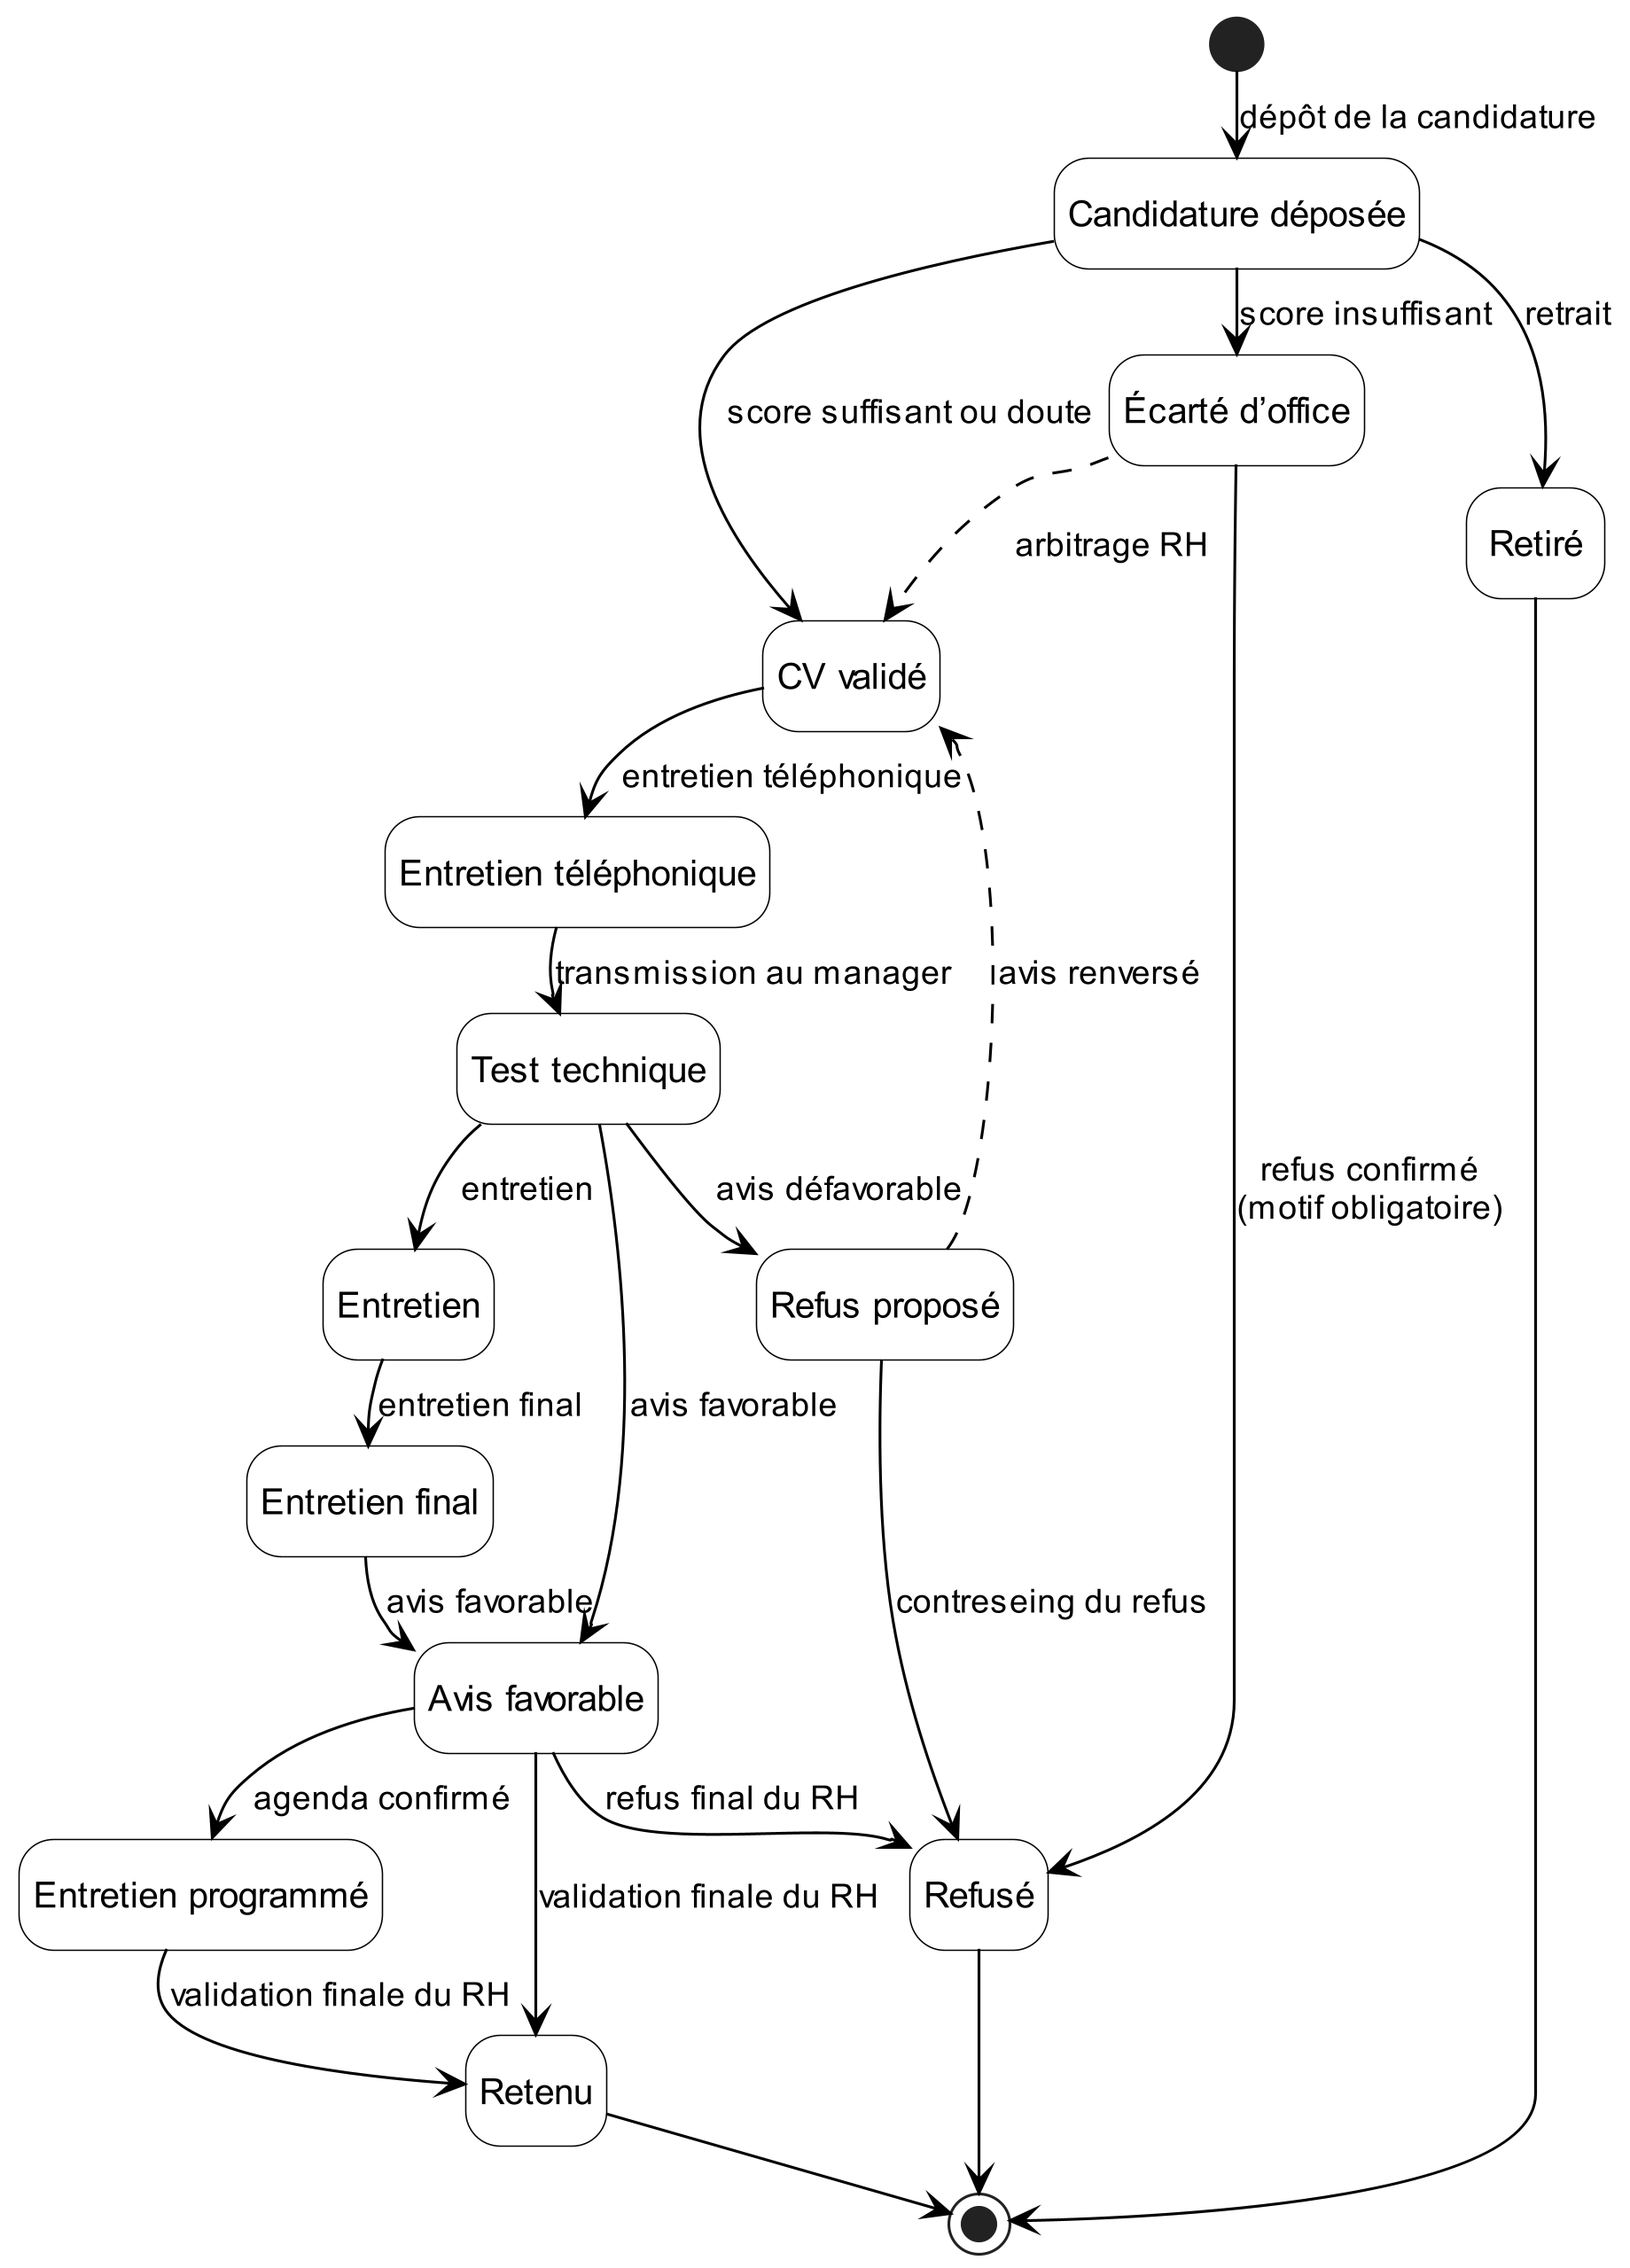
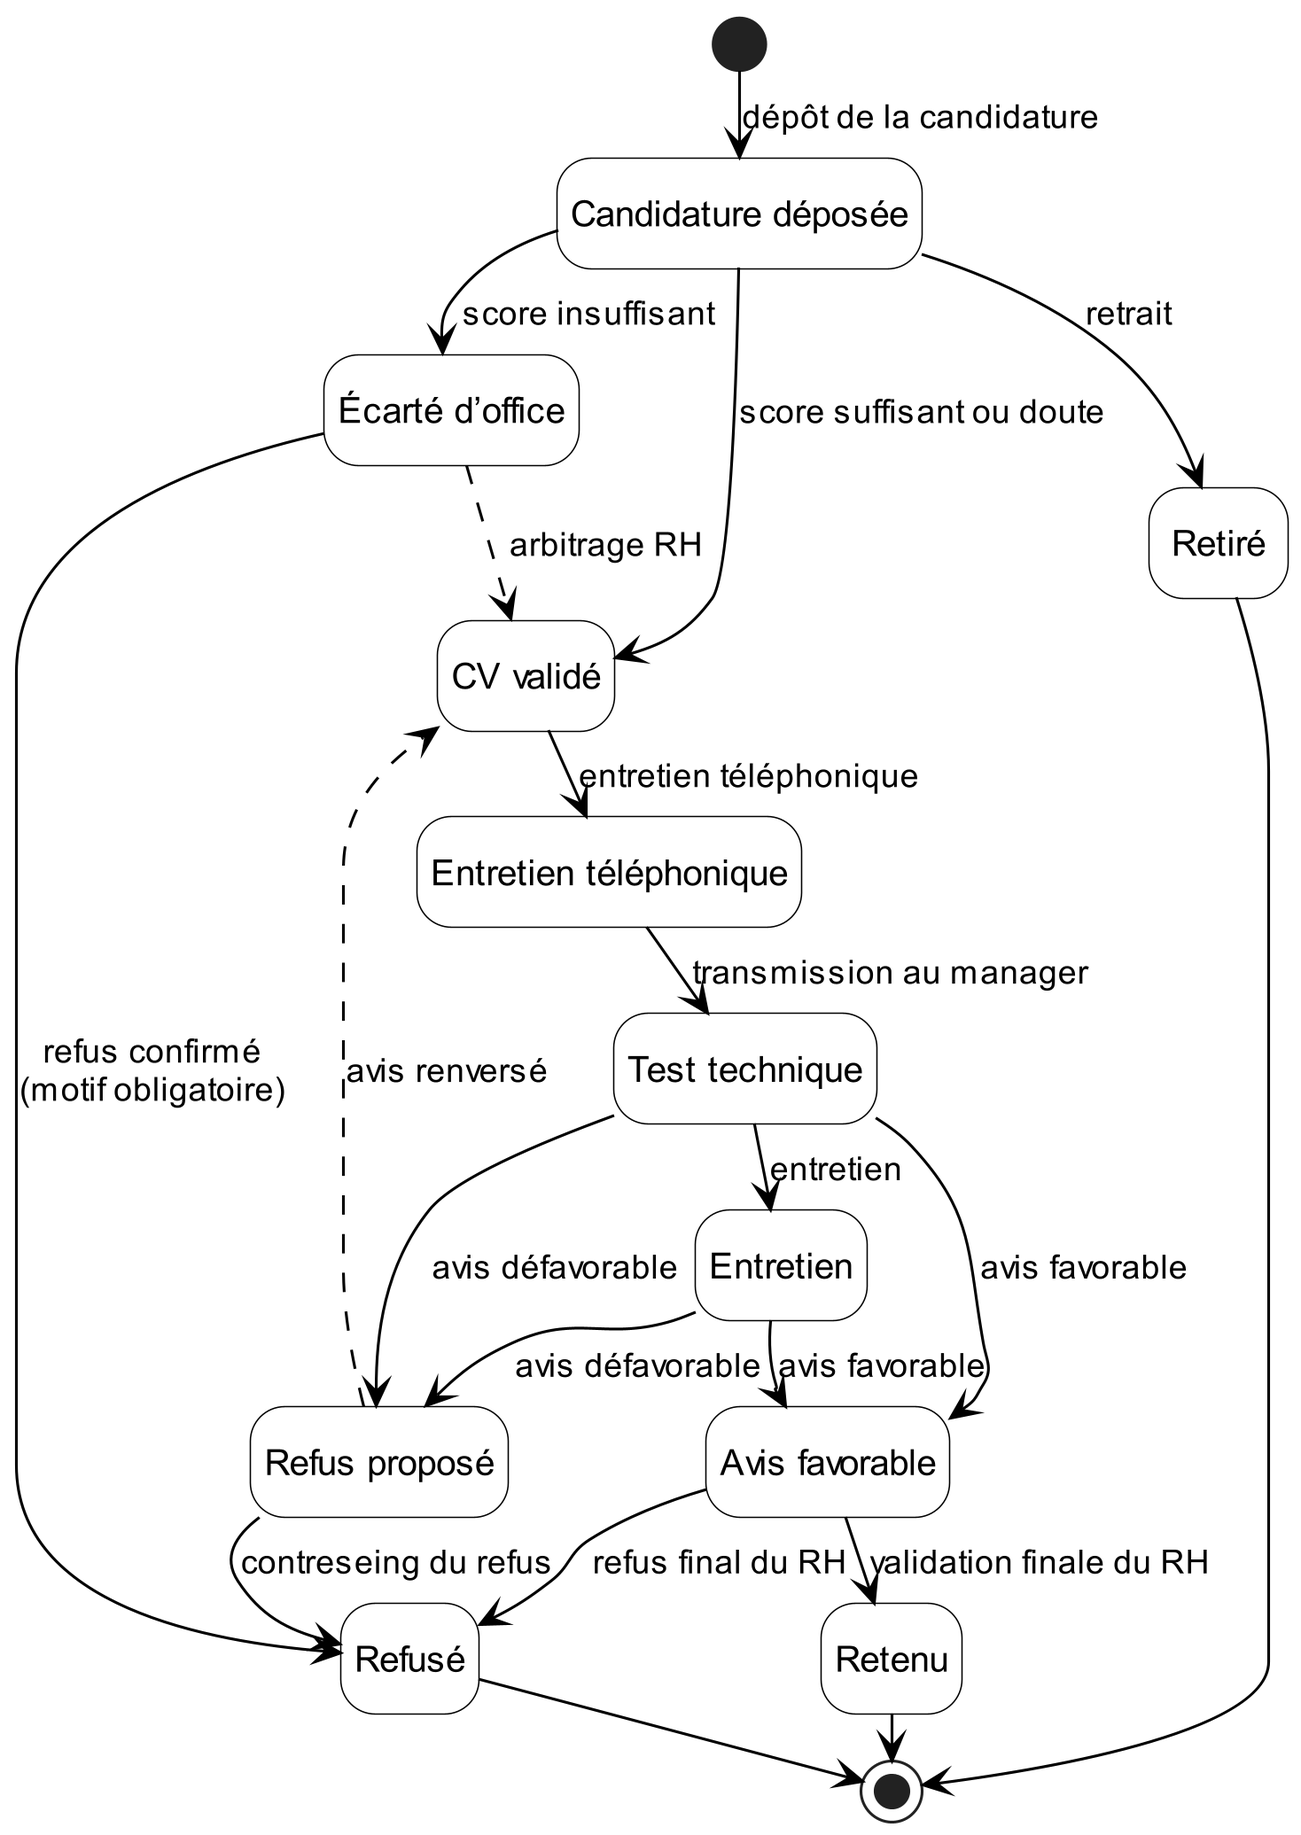
docs(rapport) : figures 2.1b et 3.8 alignées sur le statut d'entretien unique
Le diagramme d'états ne dessine plus que onze des treize constantes : « entretien
final » est fondu dans « entretien », « entretien programmé » n'étant produit par
aucun flux. La prose suit, y compris la pré-condition de l'avis manager.

diff --git a/Rapport-PFE/finalreport/A_REPLACER_DANS_OVERLEAF/main.tex b/Rapport-PFE/finalreport/A_REPLACER_DANS_OVERLEAF/main.tex
@@ -1081,7 +1081,7 @@ Le tableau~\ref{tab_2_2} détaille le scénario nominal de deux cas d’utilisat
 \hline
 Acteur principal & Candidat & Manager (avis), puis Responsable RH (contreseing) \\
 \hline
-Pré-condition & L’offre est publiée & Le dossier a été transmis au manager pour évaluation technique : un avis favorable comme un refus proposé sont admis sur les seuls statuts « test technique », « entretien » et « entretien final », c’est-à-dire après le pré-filtrage téléphonique du RH. \\
+Pré-condition & L’offre est publiée & Le dossier a été transmis au manager pour évaluation technique : un avis favorable comme un refus proposé sont admis sur les seuls statuts « test technique » et « entretien », c’est-à-dire après le pré-filtrage téléphonique du RH. \\
 \hline
 Scénario nominal & Le candidat consulte l’offre, remplit le formulaire de candidature et dépose son CV. Le système enregistre la candidature, envoie un e-mail de confirmation et déclenche l’analyse IA du CV. & Le manager consulte le dossier du candidat, ses scores et ses éventuels retours, puis émet un avis — favorable, ou refus proposé accompagné d’un motif. Le RH, averti par e-mail et dans sa liste de candidats, contresigne cet avis : « retenu » avec date de présentation des documents, ou « refusé » motivé. \\
 \hline
@@ -1392,7 +1392,7 @@ Les figures~\ref{fig_3_7a} et~\ref{fig_3_7b} détaillent destination et notifica
 
 \section{Diagramme d’états — Cycle de vie d’une candidature}
 \label{sec_3_6}
-La figure~\ref{fig_3_8} donne la machine à états du dossier. Elle ne dessine que les transitions les plus représentatives ; les autres, autorisées par le garde-fou métier, sont détaillées dans la suite de cette section. Chaque statut y porte un libellé français, que le code rend par une constante — de \texttt{APPLIED} à \texttt{WITHDRAWN}, treize au total.
+La figure~\ref{fig_3_8} donne la machine à états du dossier. Elle ne dessine que les transitions les plus représentatives ; les autres, autorisées par le garde-fou métier, sont détaillées dans la suite de cette section. Chaque statut y porte un libellé français, que le code rend par une constante — de \texttt{APPLIED} à \texttt{WITHDRAWN}, treize au total, dont onze dessinées ici.
 
 % figure 3.8
 \setcounter{figure}{7}
@@ -1403,7 +1403,7 @@ La figure~\ref{fig_3_8} donne la machine à états du dossier. Elle ne dessine q
 \label{fig_3_8}
 \end{figure}
 
-Le statut « entretien programmé » suit l’avis favorable : il matérialise la confirmation de l’agenda et précède la décision finale, sans désigner une étape d’évaluation. Planifier un entretien fait avancer le dossier à l’étape du type retenu (téléphonique, test, entretien, entretien final) ; si la machine à états refuse cette avancée, le dossier reste en place et l’entretien n’est pas annulé.
+Planifier un entretien fait avancer le dossier à l’étape du type retenu (téléphonique, test, entretien) ; si la machine à états refuse cette avancée, le dossier reste en place et l’entretien n’est pas annulé. Deux constantes ont quitté le diagramme. « Entretien final » est fondu dans « entretien » : une seule évaluation technique conduit le dossier, le type du créneau ne change pas le statut. « Entretien programmé » n’était produit par aucun flux et l’embauche ne l’exige pas. Les deux restent dans le code pour que les dossiers qui les portent encore demeurent lisibles et contre-signables.
 
 Un embranchement dépend du score : « CV validé » au-dessus du seuil du profil (60/100 par défaut), « écarté d’office » en dessous. Les dossiers signalés (CV inexploitable, écart de séniorité sévère, zone grise autour du seuil, service indisponible) échappent au rejet automatique et rejoignent l’examen humain (section~\ref{sec_4_4_6}). Le signalement et son motif, pas le statut, distinguent les deux cas.
 
